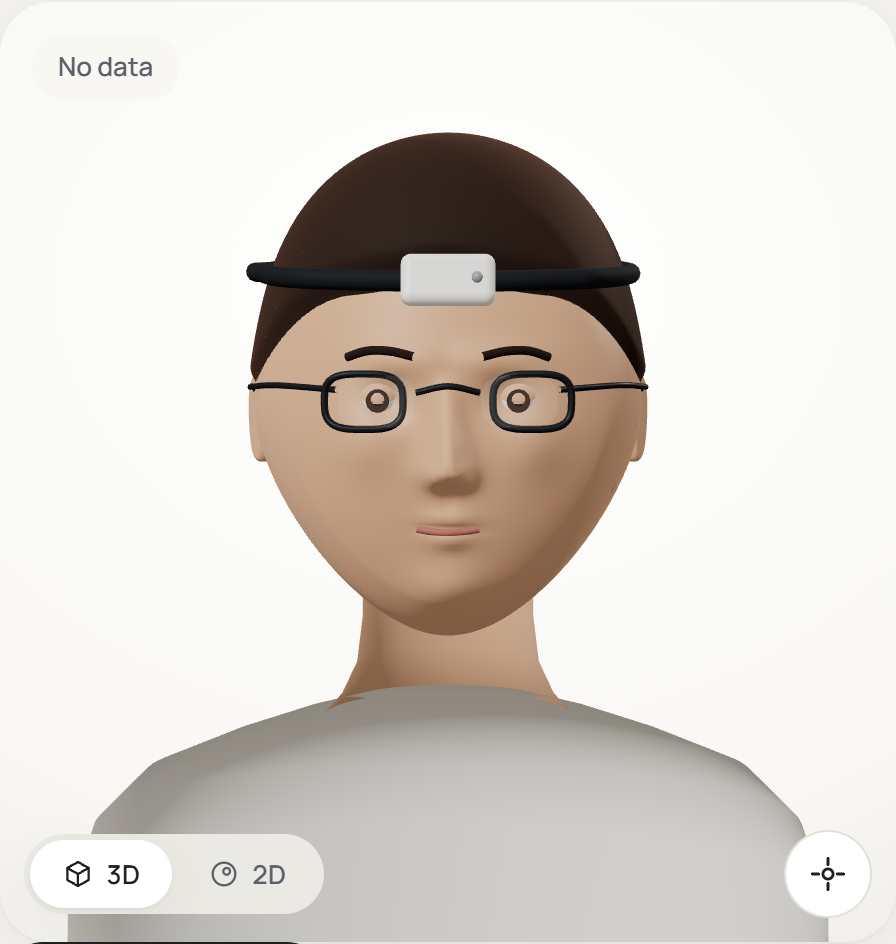
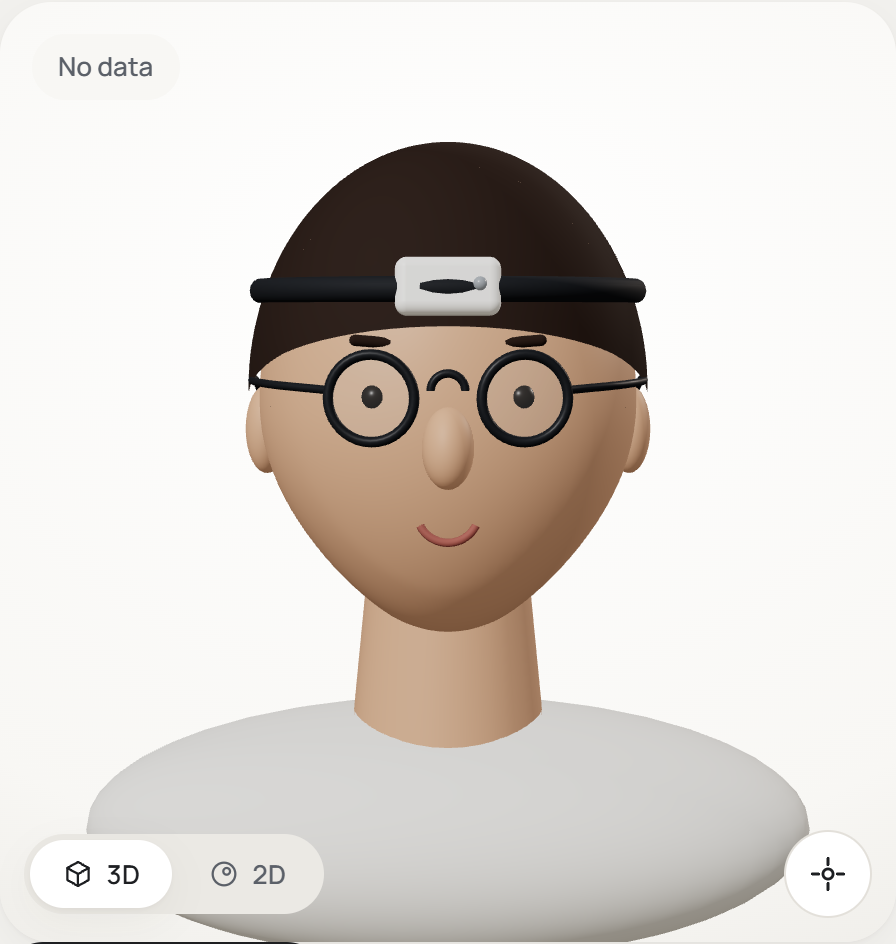
Restore the stylised v1 head model (owner preference)

diff --git a/app/src/components/headModel.ts b/app/src/components/headModel.ts
@@ -1,10 +1,8 @@
-// Procedural, stylised but human head: one sculpted skull mesh (jaw, chin, cheekbones, brow, eye
-// sockets, nose and lips are shaped into the surface), a hair shell that grows out of the scalp with
-// a soft hairline, eyes with lids, and accessories (ears, brows, glasses, headband with the sensor
-// pod) fitted to the actual surface by ray-casting so everything sits flush.
-// No model file, no licence obligations. See docs/HEAD_MODEL.md.
+// Procedural, stylised head: neutral skin, short hair, glasses, and a headband carrying the
+// sensor pod (where the ESP32 + MPU6050 board sits). Built from three.js primitives at runtime:
+// no model file, no licence obligations, ~0 KB download. See docs/HEAD_MODEL.md.
 //
-// Model space: Y up, the face looks down +Z, head centre at the origin, head height ~2.
+// Model space: Y up, face looks down +Z, head centre at the origin, radius ~1.
 // `pivot` sits at the top of the neck so nodding and tilting rotate about a natural point.
 import * as THREE from 'three';
 import { RoundedBoxGeometry } from 'three/examples/jsm/geometries/RoundedBoxGeometry.js';
@@ -23,106 +21,61 @@ export interface HeadRig {
   dispose(): void;
 }
 
-export const RING_RADIUS = 1.42;
-const NECK_PIVOT = new THREE.Vector3(0, -0.85, -0.1);
+const NECK_PIVOT = new THREE.Vector3(0, -0.85, -0.08);
 
-// ---------- sculpting helpers ----------
-const clamp = (x: number, a: number, b: number) => Math.min(b, Math.max(a, x));
-const smooth = (e0: number, e1: number, x: number) => { const t = clamp((x - e0) / (e1 - e0), 0, 1); return t * t * (3 - 2 * t); };
-const bump = (u: number, v: number) => Math.exp(-(u * u + v * v));
-
-/** Maps a unit direction to a point on the sculpted head surface. */
-function sculpt(x: number, y: number, z: number, out: THREE.Vector3): THREE.Vector3 {
-  let px = x * 0.79, pz = z * 0.9;
-  const py = y * 1.0;
-  const below = clamp(-y, 0, 1);
-  px *= 1 - 0.24 * below * below;                      // jaw narrower than the cranium
-  pz *= 1 - 0.06 * below * below;
-  if (z < 0) pz *= 1.08 - 0.5 * smooth(-0.05, -0.9, y); // occipital fullness, curving in towards the neck below
-  if (pz > 0.55) pz = 0.55 + (pz - 0.55) * 0.78;       // flatter face plane
-  px *= 1 + 0.04 * bump(y / 0.35, (z - 0.2) / 0.5);    // slightly wider at the temples
-
-  const front = smooth(0.25, 0.75, z);                 // facial features only on the front
-  const ax = Math.abs(x);
-  let f = 0;
-  // brow ridge and eye sockets
-  f += 0.035 * Math.exp(-(((y - 0.2) / 0.07) ** 2)) * Math.exp(-(((ax - 0.22) / 0.22) ** 2));
-  f -= 0.055 * bump((ax - 0.27) / 0.12, (y - 0.05) / 0.085);
-  // cheekbones
-  f += 0.04 * bump((ax - 0.42) / 0.15, (y + 0.13) / 0.13);
-  // nose: ridge growing to the tip, then the base with the alae
-  const ridgeWin = smooth(0.17, 0.07, y) * smooth(-0.33, -0.22, y);
-  const ridgeH = 0.035 + 0.15 * smooth(0.1, -0.2, y);
-  const ridgeW = 0.06 + 0.045 * smooth(0.0, -0.24, y);
-  f += ridgeH * ridgeWin * Math.exp(-((x / ridgeW) ** 2));
-  f += 0.045 * bump((ax - 0.075) / 0.05, (y + 0.24) / 0.05);
-  // lips, mouth line, chin
-  f += 0.032 * bump(x / 0.13, (y + 0.415) / 0.035);
-  f += 0.038 * bump(x / 0.11, (y + 0.5) / 0.04);
-  f -= 0.022 * bump(x / 0.14, (y + 0.457) / 0.012);
-  f += 0.06 * bump(x / 0.22, (y + 0.72) / 0.11);
-  // philtrum
-  f -= 0.012 * bump(x / 0.025, (y + 0.36) / 0.04);
-  pz += f * front;
-  return out.set(px, py, pz);
-}
-
-function sculptedSphere(wSeg: number, hSeg: number, displace?: (dir: THREE.Vector3, p: THREE.Vector3) => void) {
-  const g = new THREE.SphereGeometry(1, wSeg, hSeg);
-  const pos = g.attributes.position as THREE.BufferAttribute;
-  const d = new THREE.Vector3(), p = new THREE.Vector3();
-  for (let i = 0; i < pos.count; i++) {
-    d.fromBufferAttribute(pos, i).normalize();
-    sculpt(d.x, d.y, d.z, p);
-    displace?.(d, p);
-    pos.setXYZ(i, p.x, p.y, p.z);
+function shapeSkull(g: THREE.BufferGeometry, grow = 1) {
+  const p = g.attributes.position as THREE.BufferAttribute;
+  const v = new THREE.Vector3();
+  for (let i = 0; i < p.count; i++) {
+    v.fromBufferAttribute(p, i);
+    const y = v.y;
+    let x = v.x, z = v.z;
+    x *= 0.8; z *= 0.92;
+    const t = Math.min(1, Math.max(0, -y));             // jaw taper below the equator
+    x *= 1 - 0.3 * t * t;
+    z *= 1 - 0.1 * t * t;
+    if (z < 0) z *= 1.05;                                // fuller back of the head
+    if (z > 0.6) z = 0.6 + (z - 0.6) * 0.85;             // flatter face
+    p.setXYZ(i, x * grow, y * grow, z * grow);
   }
-  pos.needsUpdate = true;
+  p.needsUpdate = true;
   g.computeVertexNormals();
   return g;
 }
 
-/** Where the hair grows (0..1) for a unit direction, with a soft hairline. */
-function hairMask(d: THREE.Vector3): number {
-  const yLine = d.z > 0
-    ? 0.06 + (0.42 - 0.1 * Math.abs(d.x)) * smooth(0.15, 0.75, d.z)   // forehead hairline, receding at the temples
-    : 0.06 - 0.56 * smooth(0.0, -0.75, d.z);                           // down to the nape at the back
-  return smooth(yLine - 0.01, yLine + 0.09, d.y);
-}
-
 export function buildHead(c: HeadColors): HeadRig {
   const disposables: { dispose(): void }[] = [];
-  const keep = <T extends { dispose(): void }>(x: T) => { disposables.push(x); return x; };
-  const std = (color: string, o: THREE.MeshStandardMaterialParameters = {}) => keep(new THREE.MeshStandardMaterial({ color, roughness: 0.6, metalness: 0, ...o }));
-  const mesh = (g: THREE.BufferGeometry, m: THREE.Material) => new THREE.Mesh(keep(g), m);
+  const mat = (color: string, opts: THREE.MeshStandardMaterialParameters = {}) => {
+    const m = new THREE.MeshStandardMaterial({ color, roughness: 0.62, metalness: 0, ...opts });
+    disposables.push(m);
+    return m;
+  };
+  const geo = <G extends THREE.BufferGeometry>(g: G) => { disposables.push(g); return g; };
+  const mesh = (g: THREE.BufferGeometry, m: THREE.Material, pos?: [number, number, number]) => {
+    const o = new THREE.Mesh(g, m);
+    if (pos) o.position.set(...pos);
+    return o;
+  };
 
-  const skin = keep(new THREE.MeshPhysicalMaterial({ color: c.skin, roughness: 0.52, metalness: 0, sheen: 0.4, sheenColor: new THREE.Color('#ffd9c4'), sheenRoughness: 0.6 }));
-  const hair = keep(new THREE.MeshPhysicalMaterial({ color: c.hair, roughness: 0.78, metalness: 0, sheen: 0.6, sheenColor: new THREE.Color('#7a5a48'), sheenRoughness: 0.5 }));
-  const frame = std(c.headset, { roughness: 0.3 });
-  const band = std(c.headset, { roughness: 0.75 });
-  const pod = std(c.pod, { roughness: 0.35 });
-  const sclera = std('#f6f3ef', { roughness: 0.25 });
-  const iris = std('#4a3426', { roughness: 0.3 });
-  const pupil = std('#141110', { roughness: 0.2 });
-  const brow = std(c.hair, { roughness: 0.9 });
-  const lipMat = keep(new THREE.MeshPhysicalMaterial({ color: '#b7766a', roughness: 0.45, sheen: 0.3 }));
-  const cloth = std(c.clothing, { roughness: 0.92 });
-  const glass = keep(new THREE.MeshPhysicalMaterial({ color: '#ffffff', transparent: true, opacity: 0.14, roughness: 0.05, clearcoat: 1, depthWrite: false }));
-  const led = std(c.ok, { emissive: new THREE.Color(c.ok), emissiveIntensity: 0.8, roughness: 0.2 });
+  const skin = mat(c.skin, { roughness: 0.55 });
+  const hair = mat(c.hair, { roughness: 0.85 });
+  const frame = mat(c.headset, { roughness: 0.35 });
+  const band = mat(c.headset, { roughness: 0.7 });
+  const pod = mat(c.pod, { roughness: 0.4 });
+  const dark = mat('#2a2522', { roughness: 0.3 });
+  const lip = mat('#a8655c', { roughness: 0.6 });
+  const cloth = mat(c.clothing, { roughness: 0.9 });
+  const glass = new THREE.MeshPhysicalMaterial({ color: '#ffffff', transparent: true, opacity: 0.16, roughness: 0.05, metalness: 0, clearcoat: 1 });
+  disposables.push(glass);
+  const led = mat(c.ok, { emissive: new THREE.Color(c.ok), emissiveIntensity: 0.8, roughness: 0.2 });
 
   const root = new THREE.Group();
 
-  // ----- static body: neck and shoulders (smooth lathe profiles) -----
-  const neckPts = [[0.0, -0.3], [0.32, -0.36], [0.37, -0.62], [0.375, -0.95], [0.4, -1.15], [0.47, -1.3], [0.56, -1.4]].map(([r, y]) => new THREE.Vector2(r, y));
-  const neck = mesh(new THREE.LatheGeometry(neckPts, 64), skin);
-  neck.position.set(0, 0, -0.12);
-  neck.scale.set(1, 1, 0.92);
-  root.add(neck);
-  const torsoPts = [[0.0, -1.28], [0.4, -1.31], [0.66, -1.38], [0.98, -1.49], [1.34, -1.64], [1.56, -1.86], [1.68, -2.2], [1.72, -3.6]].map(([r, y]) => new THREE.Vector2(r, y));
-  const torso = mesh(new THREE.LatheGeometry(torsoPts, 96), cloth);
-  torso.position.set(0, 0, -0.12);
-  torso.scale.set(1, 1, 0.62);   // closed top: the neck sits in it, no gap from any angle
-  root.add(torso);
+  // ----- static body: neck and shoulders -----
+  root.add(mesh(geo(new THREE.CylinderGeometry(0.35, 0.43, 0.8, 40)), skin, [0, -1.12, -0.1]));
+  const shoulders = mesh(geo(new THREE.SphereGeometry(1, 48, 24)), cloth, [0, -1.88, -0.12]);
+  shoulders.scale.set(1.6, 0.55, 0.78);
+  root.add(shoulders);
 
   // ----- head on a neck pivot -----
   const pivot = new THREE.Group();
@@ -132,151 +85,73 @@ export function buildHead(c: HeadColors): HeadRig {
   head.position.copy(NECK_PIVOT).negate();
   pivot.add(head);
 
-  const skull = mesh(sculptedSphere(176, 132), skin);
-  head.add(skull);
-  // hair: same surface pushed out along the radial direction where hair grows, hidden just inside elsewhere
-  const hairGeo = sculptedSphere(192, 144, (d, p) => {
-    const m = hairMask(d);
-    const crown = smooth(0.1, 0.95, d.y);
-    const fringe = 0.03 * bump(d.x / 0.5, (d.y - 0.55) / 0.15) * smooth(0.3, 0.8, d.z);   // a little lift at the front
-    const th = 0.03 + 0.1 * crown + 0.03 * smooth(0.0, -0.6, d.z) + fringe;
-    const r = p.length();
-    p.multiplyScalar((r + th * m - 0.015 * (1 - m)) / r);        // continuous: just inside the skin where m = 0
-  });
-  const hairMesh = mesh(hairGeo, hair);
-  head.add(hairMesh);
-  skull.updateMatrixWorld(true);
-  hairMesh.updateMatrixWorld(true);
+  head.add(mesh(shapeSkull(geo(new THREE.SphereGeometry(1, 72, 54))), skin));
 
-  // ----- surface queries for fitting the accessories -----
-  const rc = new THREE.Raycaster();
-  const hitFront = (x: number, y: number, target: THREE.Object3D = skull) => {
-    rc.set(new THREE.Vector3(x, y, 5), new THREE.Vector3(0, 0, -1));
-    const h = rc.intersectObject(target, false)[0];
-    return h ? h.point.clone() : new THREE.Vector3(x, y, 0.8);
-  };
-  /** Point on the surface in the horizontal direction `ang` (0 = front, +pi/2 = +x side) at height y. */
-  const hitAround = (ang: number, y: number, target: THREE.Object3D) => {
-    const dir = new THREE.Vector3(Math.sin(ang), 0, Math.cos(ang));
-    rc.set(new THREE.Vector3(0, y, 0).addScaledVector(dir, 5), dir.clone().negate());
-    const h = rc.intersectObject(target, false)[0];
-    return h ? h.point.clone() : new THREE.Vector3(0, y, 0).addScaledVector(dir, 0.8);
-  };
-
-  // ----- eyes: sclera set into the socket, iris + pupil, an upper lid of skin -----
   for (const s of [-1, 1]) {
-    const surf = hitFront(s * 0.27, 0.05);
-    const ctr = surf.clone().add(new THREE.Vector3(0, 0, -0.035));
-    const ball = mesh(new THREE.SphereGeometry(0.072, 32, 24), sclera);
-    ball.position.copy(ctr);
-    head.add(ball);
-    const ir = mesh(new THREE.CircleGeometry(0.045, 32), iris);
-    ir.position.copy(ctr).add(new THREE.Vector3(0, -0.006, 0.0725));
-    head.add(ir);
-    const pu = mesh(new THREE.CircleGeometry(0.02, 24), pupil);
-    pu.position.copy(ctr).add(new THREE.Vector3(0, -0.006, 0.0735));
-    head.add(pu);
-    const lid = mesh(new THREE.SphereGeometry(0.077, 32, 16, 0, Math.PI * 2, 0, Math.PI * 0.4), skin);
-    lid.position.copy(ctr);
-    lid.rotation.x = 0.55;                              // covers the top of the eye, tilted forward
-    head.add(lid);
-    // brow following the brow ridge
-    const pts = [0.13, 0.22, 0.31, 0.39].map((ax, i) => hitFront(s * ax, 0.215 + [0.0, 0.02, 0.02, -0.005][i]).add(new THREE.Vector3(0, 0, 0.012)));
-    head.add(mesh(new THREE.TubeGeometry(new THREE.CatmullRomCurve3(pts), 20, 0.017, 8, false), brow));
+    const ear = mesh(geo(new THREE.SphereGeometry(1, 24, 16)), skin, [s * 0.78, -0.12, -0.04]);
+    ear.scale.set(0.09, 0.19, 0.13);
+    head.add(ear);
+    head.add(mesh(geo(new THREE.SphereGeometry(0.052, 20, 14)), dark, [s * 0.28, 0.06, 0.79]));
+    const brow = mesh(geo(new THREE.CapsuleGeometry(0.022, 0.15, 4, 10)), hair, [s * 0.28, 0.27, 0.79]);
+    brow.rotation.set(-0.15, 0, Math.PI / 2 + s * 0.08);
+    head.add(brow);
   }
+  const nose = mesh(geo(new THREE.SphereGeometry(1, 24, 16)), skin, [0, -0.13, 0.86]);
+  nose.scale.set(0.1, 0.16, 0.12);
+  nose.rotation.x = -0.2;
+  head.add(nose);
+  const arc = Math.PI * 0.7;
+  const mouth = mesh(geo(new THREE.TorusGeometry(0.12, 0.016, 8, 24, arc)), lip, [0, -0.38, 0.8]);
+  mouth.rotation.set(-0.2, 0, Math.PI + (Math.PI - arc) / 2);
+  head.add(mouth);
 
-  // ----- lips tint (a thin line along the mouth, flush with the sculpt) -----
-  {
-    const pts = [-0.12, -0.06, 0, 0.06, 0.12].map((x) => hitFront(x, -0.457 - 0.012 * (1 - (x / 0.12) ** 2)).add(new THREE.Vector3(0, 0, 0.004)));
-    head.add(mesh(new THREE.TubeGeometry(new THREE.CatmullRomCurve3(pts), 24, 0.014, 8, false), lipMat));
+  // hair: a cap tilted back over the crown, plus volume at the back of the head
+  const cap = shapeSkull(geo(new THREE.SphereGeometry(1, 72, 30, 0, Math.PI * 2, 0, Math.PI * 0.52)), 1.06);
+  const capMesh = mesh(cap, hair, [0, 0.05, -0.02]);
+  capMesh.rotation.x = -0.38;
+  head.add(capMesh);
+  const back = mesh(geo(new THREE.SphereGeometry(1, 40, 24)), hair, [0, -0.08, -0.36]);
+  back.scale.set(0.8, 0.72, 0.62);
+  head.add(back);
+
+  // glasses
+  for (const s of [-1, 1]) {
+    const rim = mesh(geo(new THREE.TorusGeometry(0.165, 0.02, 10, 40)), frame, [s * 0.29, 0.06, 0.9]);
+    rim.rotation.y = s * 0.14;
+    head.add(rim);
+    const lens = mesh(geo(new THREE.CircleGeometry(0.16, 32)), glass, [s * 0.29, 0.06, 0.9]);
+    lens.rotation.y = s * 0.14;
+    head.add(lens);
+    const path = new THREE.CatmullRomCurve3([
+      new THREE.Vector3(s * 0.455, 0.09, 0.87), new THREE.Vector3(s * 0.68, 0.1, 0.64),
+      new THREE.Vector3(s * 0.8, 0.1, 0.3), new THREE.Vector3(s * 0.82, 0.09, 0.0), new THREE.Vector3(s * 0.8, 0.0, -0.14),
+    ]);
+    head.add(mesh(geo(new THREE.TubeGeometry(path, 24, 0.016, 8, false)), frame));
   }
+  const bridge = mesh(geo(new THREE.TorusGeometry(0.065, 0.016, 8, 16, Math.PI)), frame, [0, 0.09, 0.93]);
+  head.add(bridge);
 
-  // ----- ears: a bevelled C-shaped outline, set flush into the side of the head -----
-  {
-    const sh = new THREE.Shape();
-    sh.moveTo(0, -0.16);
-    sh.bezierCurveTo(0.1, -0.17, 0.13, -0.02, 0.12, 0.07);
-    sh.bezierCurveTo(0.11, 0.17, 0.02, 0.2, -0.04, 0.16);
-    sh.bezierCurveTo(-0.07, 0.12, -0.05, -0.02, -0.03, -0.08);
-    sh.bezierCurveTo(-0.025, -0.13, -0.02, -0.16, 0, -0.16);
-    const earGeo = keep(new THREE.ExtrudeGeometry(sh, { depth: 0.03, bevelEnabled: true, bevelThickness: 0.025, bevelSize: 0.022, bevelSegments: 5, curveSegments: 24 }));
-    for (const s of [-1, 1]) {
-      const p = hitAround(s * Math.PI / 2 + s * 0.08, -0.08, skull);
-      const ear = new THREE.Mesh(earGeo, skin);
-      ear.position.copy(p).add(new THREE.Vector3(-s * 0.03, 0, 0));
-      ear.rotation.set(0, s * (Math.PI / 2 - 0.35), 0);
-      if (s < 0) ear.scale.x = -1;
-      head.add(ear);
-    }
-  }
+  // headband with the sensor pod on the forehead
+  const bandGeo = geo(new THREE.TorusGeometry(1, 0.05, 14, 96));
+  bandGeo.rotateX(Math.PI / 2);
+  const bandMesh = mesh(bandGeo, band, [0, 0.47, -0.04]);
+  bandMesh.scale.set(0.8, 1, 0.92);
+  head.add(bandMesh);
+  const podMesh = mesh(geo(new RoundedBoxGeometry(0.4, 0.22, 0.11, 4, 0.045)), pod, [0, 0.48, 0.86]);
+  podMesh.rotation.x = -0.2;
+  head.add(podMesh);
+  const ledMesh = mesh(geo(new THREE.SphereGeometry(0.026, 16, 12)), led, [0.12, 0.49, 0.925]);
+  head.add(ledMesh);
 
-  // ----- glasses: rounded-rectangle rims in front of the eyes, bridge over the nose, temples along the head -----
-  {
-    const rimPath = (cx: number, cy: number, cz: number, w: number, h: number) => {
-      const pts: THREE.Vector3[] = [];
-      for (let i = 0; i < 48; i++) {
-        const a = (i / 48) * Math.PI * 2;
-        const ca = Math.cos(a), sa = Math.sin(a);
-        const ex = 3.2;                                 // superellipse: soft rounded rectangle
-        pts.push(new THREE.Vector3(cx + (w / 2) * Math.sign(ca) * Math.abs(ca) ** (2 / ex), cy + (h / 2) * Math.sign(sa) * Math.abs(sa) ** (2 / ex), cz - 0.02 * ca * ca));
-      }
-      return new THREE.CatmullRomCurve3(pts, true);
-    };
-    const eyeZ = hitFront(0.27, 0.05).z;
-    const bridgeZ = hitFront(0, 0.07).z;
-    const z = Math.max(eyeZ + 0.085, bridgeZ + 0.01);
-    for (const s of [-1, 1]) {
-      const cx = s * 0.27, cy = 0.045;
-      const rim = mesh(new THREE.TubeGeometry(rimPath(cx, cy, z, 0.3, 0.21), 96, 0.014, 8, true), frame);
-      rim.rotation.y = s * 0.06;
-      head.add(rim);
-      const lensShape = new THREE.Shape();
-      rimPath(0, 0, 0, 0.29, 0.2).getPoints(48).forEach((p, i) => (i ? lensShape.lineTo(p.x, p.y) : lensShape.moveTo(p.x, p.y)));
-      const lens = mesh(new THREE.ShapeGeometry(lensShape), glass);
-      lens.position.set(cx, cy, z - 0.005);
-      lens.rotation.y = s * 0.06;
-      head.add(lens);
-      // temple: from the outer edge of the rim, along the side of the head, over the ear
-      const pts = [new THREE.Vector3(s * 0.42, 0.09, z - 0.02)];
-      for (const ang of [0.95, 1.2, 1.42, 1.62]) pts.push(hitAround(s * ang, 0.09 - (ang - 0.95) * 0.05, skull).multiplyScalar(1.025));
-      pts.push(hitAround(s * 1.8, -0.02, skull).multiplyScalar(1.02));
-      head.add(mesh(new THREE.TubeGeometry(new THREE.CatmullRomCurve3(pts), 40, 0.012, 8, false), frame));
-    }
-    const bridge = new THREE.CatmullRomCurve3([new THREE.Vector3(-0.12, 0.08, z - 0.01), new THREE.Vector3(0, 0.105, Math.max(z - 0.005, bridgeZ + 0.025)), new THREE.Vector3(0.12, 0.08, z - 0.01)]);
-    head.add(mesh(new THREE.TubeGeometry(bridge, 16, 0.012, 8, false), frame));
-  }
-
-  // ----- headband over the hair, lower at the forehead, with the sensor pod on the front -----
-  {
-    const pts: THREE.Vector3[] = [];
-    for (let i = 0; i < 64; i++) {
-      const ang = (i / 64) * Math.PI * 2;
-      const y = 0.5 + 0.1 * (1 - Math.cos(ang)) / 2;    // 0.5 at the forehead, 0.6 at the back
-      const p = hitAround(ang, y, hairMesh);
-      const outward = new THREE.Vector3(p.x, 0, p.z).normalize();
-      pts.push(p.addScaledVector(outward, 0.022));
-    }
-    head.add(mesh(new THREE.TubeGeometry(new THREE.CatmullRomCurve3(pts, true), 160, 0.04, 12, true), band));
-    const front = pts[0];
-    const podMesh = mesh(new RoundedBoxGeometry(0.36, 0.2, 0.09, 4, 0.04), pod);
-    podMesh.position.copy(front).add(new THREE.Vector3(0, 0.005, 0.045));
-    podMesh.rotation.x = -0.28;
-    head.add(podMesh);
-    const ledMesh = mesh(new THREE.SphereGeometry(0.022, 16, 12), led);
-    ledMesh.position.copy(podMesh.position).add(new THREE.Vector3(0.11, 0.01, 0.045));
-    head.add(ledMesh);
-  }
-
-  // ----- axis indicator rings (world-fixed, shown for each shaking axis) -----
-  const ringMat = (color: string) => keep(new THREE.MeshBasicMaterial({ color, transparent: true, opacity: 0, depthWrite: false }));
+  // ----- axis indicator rings (world-fixed, shown for the shaking axis) -----
+  const ringMat = (color: string) => { const m = new THREE.MeshBasicMaterial({ color, transparent: true, opacity: 0, depthWrite: false }); disposables.push(m); return m; };
+  const R = 1.42;
   const mkRing = (color: string, rot: [number, number, number]) => {
-    const m = ringMat(color);
-    const r = mesh(new THREE.TorusGeometry(RING_RADIUS, 0.014, 8, 120), m);
-    r.position.set(0, 0.05, 0);
+    const r = mesh(geo(new THREE.TorusGeometry(R, 0.014, 8, 120)), ringMat(color), [0, 0.05, 0]);
     r.rotation.set(...rot);
     r.visible = false;
     root.add(r);
-    const dot = mesh(new THREE.SphereGeometry(0.06, 16, 12), m);
+    const dot = mesh(geo(new THREE.SphereGeometry(0.06, 16, 12)), r.material as THREE.Material);
     r.add(dot);
     return [r, dot] as const;
   };
@@ -291,3 +166,5 @@ export function buildHead(c: HeadColors): HeadRig {
     dispose: () => disposables.forEach((d) => d.dispose()),
   };
 }
+
+export const RING_RADIUS = 1.42;

diff --git a/docs/HEAD_MODEL.md b/docs/HEAD_MODEL.md
@@ -1,15 +1,11 @@
 # 3D head model
 
-**Source:** procedural, built in code at runtime in `app/src/components/headModel.ts`. No third-party model file is used, so no licence or attribution applies to the model itself. three.js (including `RoundedBoxGeometry` from its examples) is MIT-licensed.
-
-**How it is built (v2, flush):**
-- **One sculpted skull mesh:** a high-resolution sphere is displaced by a `sculpt()` function. Jaw taper, chin, cheekbones, brow ridge, eye sockets, nose (ridge, tip, alae), lips, philtrum, and an occiput that curves into the neck are all part of the same surface, so there are no seams.
-- **Hair:** the same surface pushed outward where a soft hairline mask says hair grows (forehead, receding temples, down to the nape), thicker at the crown with a small front lift. Where there is no hair it sits just inside the skin, so the hairline is continuous.
-- **Accessories fitted to the surface by ray-casting:** eyes set into the sockets (sclera, iris, pupil, a skin eyelid), brows along the brow ridge, bevelled C-shaped ears set flush into the sides, glasses with rounded rims and temples that follow the side of the head to the ears, and a headband that follows the hair surface, lower at the forehead, carrying the sensor pod.
-- **Neck and shoulders:** smooth lathe profiles; the torso has a closed top, so no gap shows from any camera angle.
+**Source:** procedural, built in code at runtime in `app/src/components/headModel.ts` from three.js primitives (spheres, tori, tubes, a rounded box). No third-party model file is used, so no licence or attribution applies to the model itself. three.js (including `RoundedBoxGeometry` from its examples) is MIT-licensed.
 
 **Why procedural:** the brief asked for a simple, stylised head with neutral skin, hair, and visible glasses and headset. A CC0 or CC-BY glTF with all of these is unlikely to exist. Adding accessories to a downloaded head would still need procedural parts, and the licence would need checking. Building it in code costs about 0 KB of download, loads instantly on a phone, and every colour comes from the design tokens (`--skin`, `--hair`, `--headset`, `--headset-pod`).
 
 **Rig:** the head rotates about a pivot at the top of the neck; the neck and shoulders stay still. The world-fixed rings around the head show the shaking axis during a tremor: pitch ring for nodding, roll ring for tilting, yaw ring for turning.
 
 **Replacing it:** if you supply a GLB, load it in `Head3D.tsx` with `GLTFLoader` (Draco or meshopt compressed), parent it to `rig.pivot`, and record its licence here and on the About screen.
+
+**History:** a more realistic, sculpted v2 was tried after milestone 3 and reverted at the owner's request. The stylised v1 head is the chosen look.
